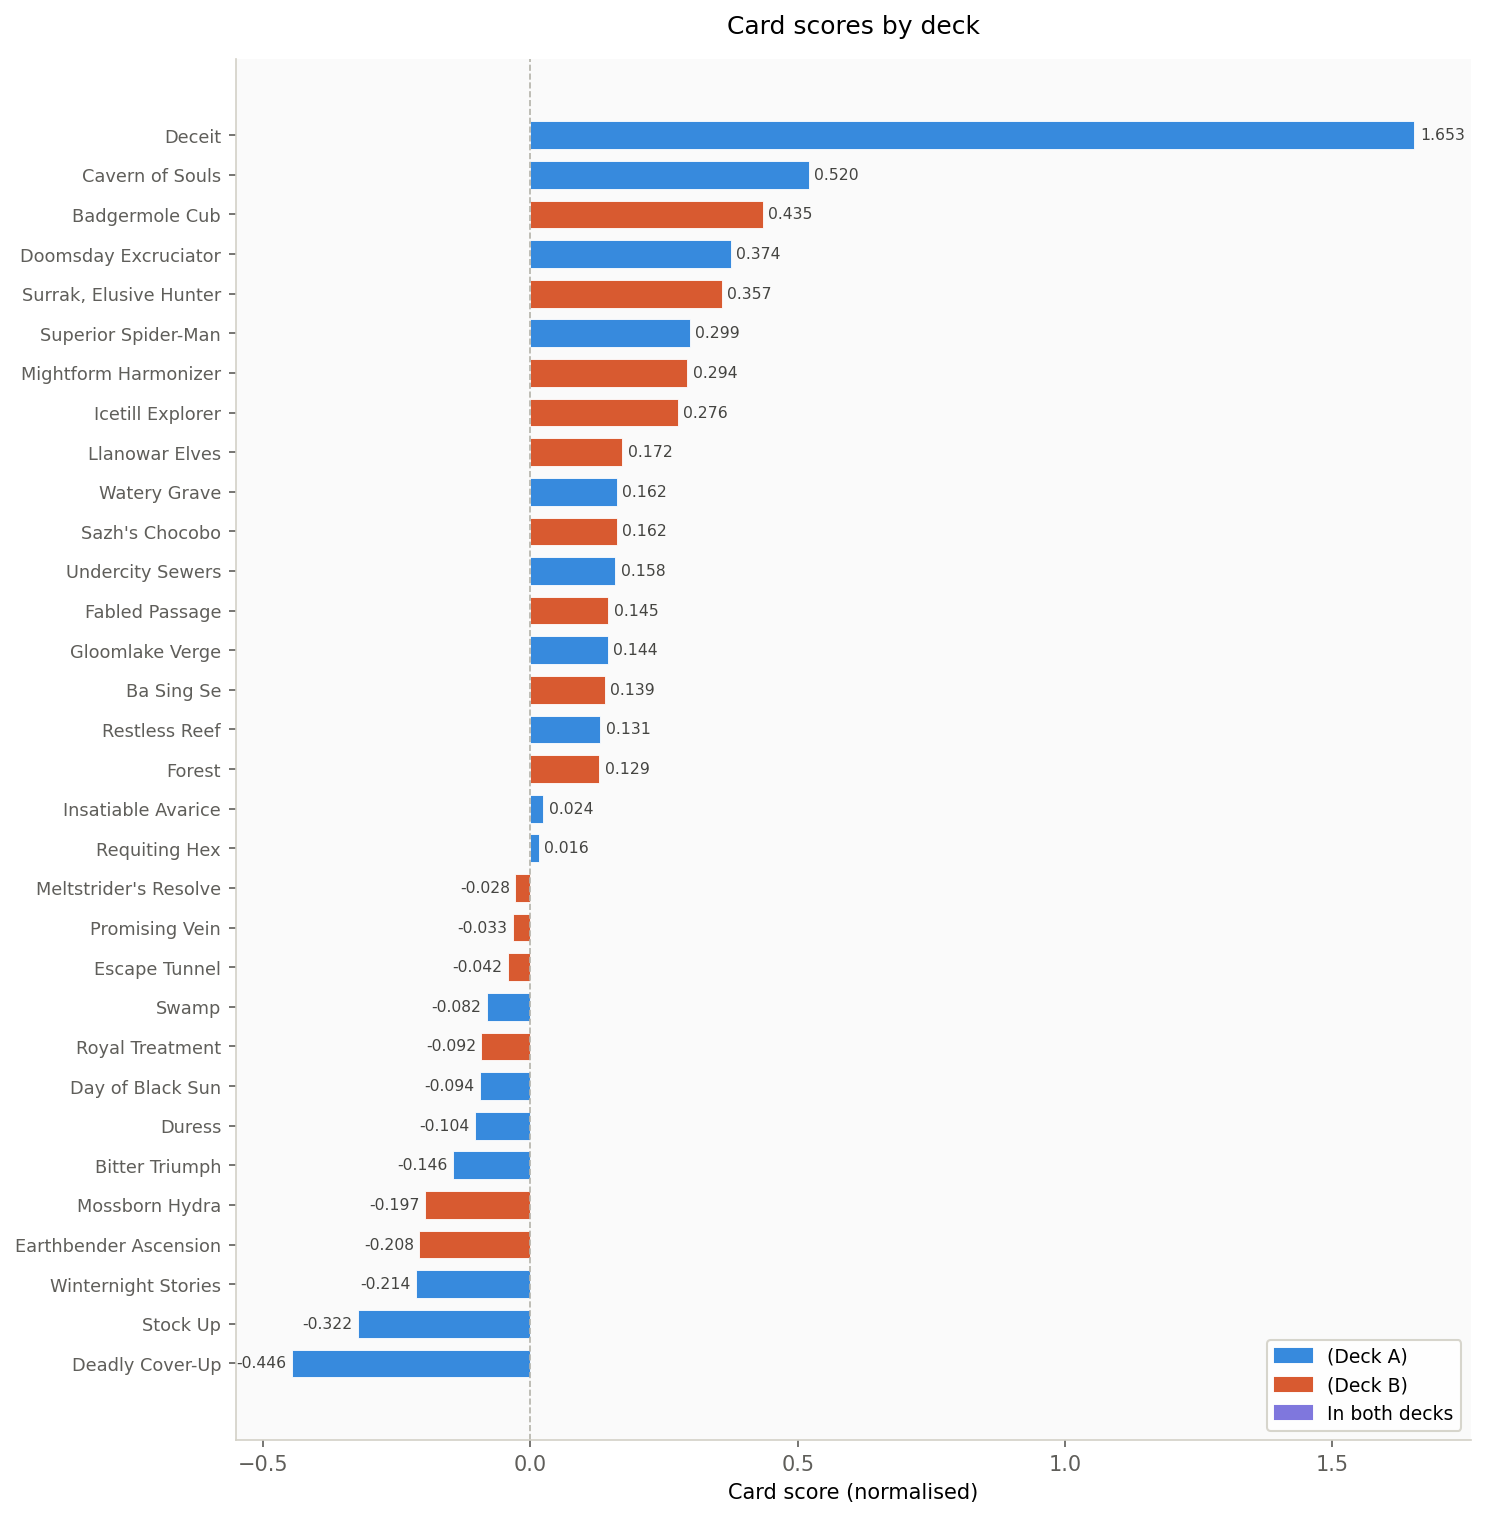
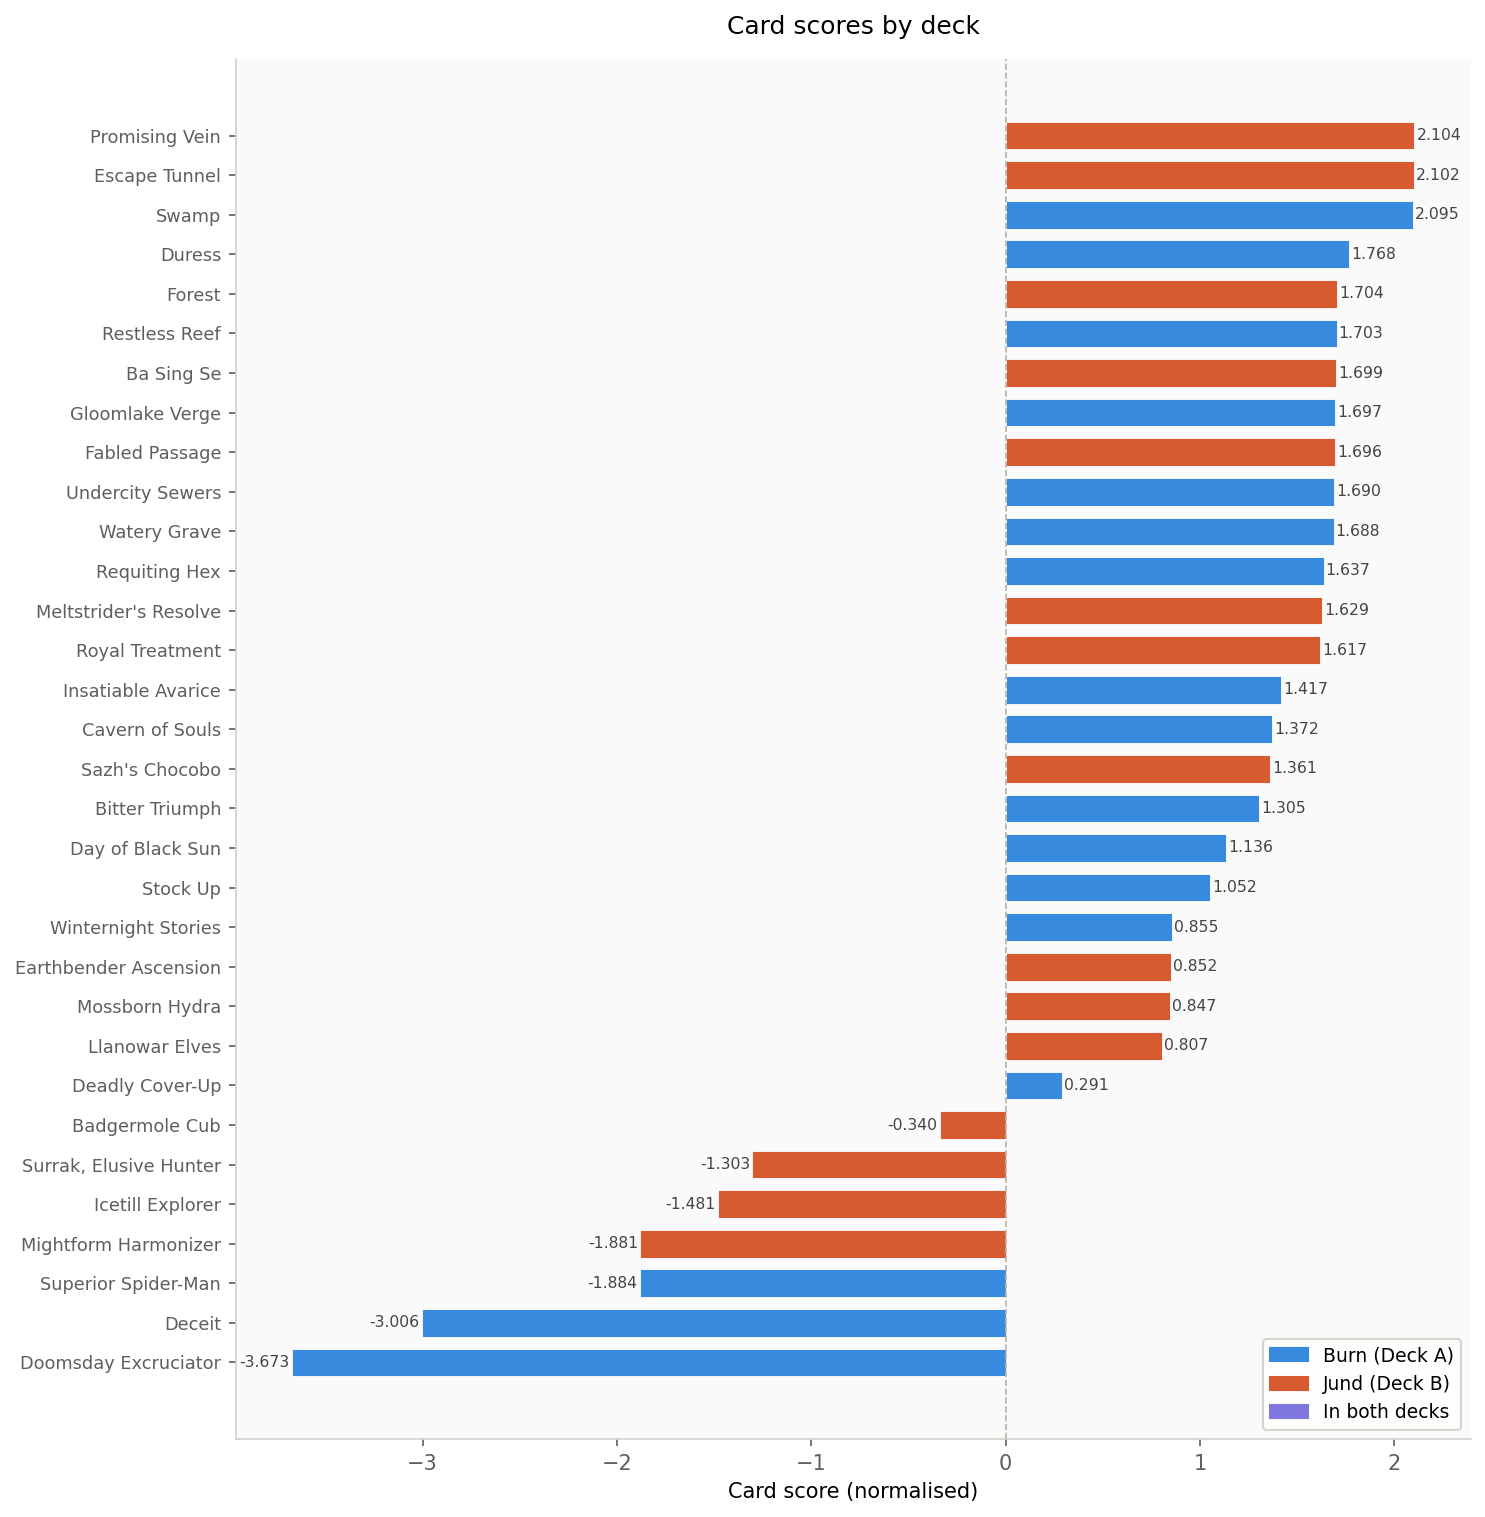
adding feature scoring visualization

diff --git a/mtg_deck_scorer_old.py b/mtg_deck_scorer_old.py
@@ -44,9 +44,7 @@ import matplotlib.pyplot as plt
 import numpy as np
 from pymongo import MongoClient
 from pymongo.errors import ConnectionFailure, OperationFailure
-from sklearn.decomposition import PCA
 from sklearn.preprocessing import StandardScaler
-
 
 # ---------------------------------------------------------------------------
 # Logging
@@ -91,9 +89,17 @@ MONGO_COLLECTION = os.getenv("MONGO_COLLECTION", "cards")
 
 RARITY_MAP = {"common": 1, "uncommon": 2, "rare": 3, "mythic": 4, "special": 3}
 
-# Ordered list of features fed into PCA.
-# PCA will learn the weights from the card pool data itself.
-FEATURE_NAMES = ["cmc", "price_usd", "price_usd_foil", "power", "toughness", "rarity_score"]
+# Feature weights — edit these to change scoring priorities.
+# Negative CMC weight: lower mana curve = higher score.
+# All other weights are positive: more = better.
+FEATURE_WEIGHTS = {
+    "cmc":            -0.20,   # lower curve is stronger
+    "price_usd":       0.30,   # expensive cards are generally better
+    "price_usd_foil":  0.10,   # secondary price signal
+    "power":           0.20,   # combat stats matter
+    "toughness":       0.10,   # survivability
+    "rarity_score":    0.10,   # rarer = more impactful on average
+}
 
 # How aggressively the sigmoid converts score difference to probability.
 # Higher = more decisive predictions. Lower = closer to 50/50.
@@ -221,67 +227,40 @@ class DeckScorer:
 
     def _build_lookup(self, cards: list[dict]) -> None:
         """
-        Derive feature weights from the card pool using PCA, then score
-        every card as its projection onto PC1 (the direction of maximum
-        variance across all cards).
-
-        Why PC1?
-        PC1 captures the single axis along which cards differ the most.
-        In a card pool where price, rarity, power, and toughness all tend
-        to move together for strong cards, PC1 naturally points in the
-        direction of overall card quality — without any hand-tuned numbers.
-
-        The loadings (eigenvector coefficients) become the weights.
-        A negative loading on CMC means high-CMC cards score lower, which
-        matches the intuition that cheaper-to-cast cards are more flexible.
-        If PC1 ends up pointing the wrong way (i.e. expensive cards score
-        low), we flip the sign so that higher score always means stronger.
+        Normalise features across the full card pool, apply weights,
+        then store a mean score per card name.
         """
-        # Build normalised feature matrix
+        feature_names = list(FEATURE_WEIGHTS.keys())
+        weights       = np.array([FEATURE_WEIGHTS[f] for f in feature_names])
+
+        # Build feature matrix
         matrix = np.array([
-            [extract_features(doc)[f] for f in FEATURE_NAMES]
+            [extract_features(doc)[f] for f in feature_names]
             for doc in cards
         ], dtype=float)
 
+        # Normalise so each feature contributes on the same scale
         scaler = StandardScaler()
         normed = scaler.fit_transform(matrix)
 
-        # Fit PCA and extract PC1 loadings as weights
-        pca = PCA(n_components=len(FEATURE_NAMES))
-        pca.fit(normed)
-        weights = pca.components_[0]   # shape: (n_features,)
-
-        # Convention: ensure price_usd loading is positive so that
-        # more expensive cards score higher (flip entire vector if not)
-        price_idx = FEATURE_NAMES.index("price_usd")
-        if weights[price_idx] < 0:
-            weights = -weights
-            logger.debug("PC1 sign flipped so that price_usd loading is positive")
-
-        logger.info(
-            "PCA weights (PC1 explains %.1f%% of variance): %s",
-            pca.explained_variance_ratio_[0] * 100,
-            {f: round(float(w), 4) for f, w in zip(FEATURE_NAMES, weights)},
-        )
-
-        # Card score = projection onto PC1
+        # Weighted sum -> raw card scores
         raw_scores = normed @ weights
 
-        # Build name -> score lookup (one entry per unique card name)
-        lookup: dict[str, float] = {}
+        # Group by name (lowercase) and average across printings
+        lookup: dict[str, list[float]] = {}
         for doc, score in zip(cards, raw_scores):
             name = doc.get("name", "").strip().lower()
             if name:
-                lookup[name] = float(score)
+                lookup.setdefault(name, []).append(float(score))
 
-        self.score_lookup: dict[str, float] = lookup
+        self.score_lookup: dict[str, float] = {
+            name: float(np.mean(vals)) for name, vals in lookup.items()
+        }
 
-        # Store for external use (plot, logging)
+        # Also store per-feature normalised means for breakdown reporting
         self._scaler        = scaler
-        self._pca           = pca
+        self._feature_names = feature_names
         self._weights       = weights
-        self._feature_names = FEATURE_NAMES
-        self._explained_variance = pca.explained_variance_ratio_
 
     @classmethod
     def from_mongo(cls) -> "DeckScorer":
@@ -457,106 +436,6 @@ def _build_reasoning(
 # ---------------------------------------------------------------------------
 # Plot
 # ---------------------------------------------------------------------------
-
-def plot_feature_weights(
-    scorer: "DeckScorer",
-    output_path: str = "feature_weights.png",
-) -> None:
-    """
-    Two-panel chart showing:
-      Left  — PC1 loadings (the weights used to score each card), as a
-              horizontal bar chart. Positive = feature raises score,
-              negative = feature lowers score.
-      Right — Explained variance ratio across all principal components,
-              showing how much of the card-pool variance each PC captures.
-              The bar for PC1 is highlighted since that is the one we use.
-    """
-    weights   = scorer._weights
-    feat_names = scorer._feature_names
-    ev_ratio  = scorer._explained_variance
-
-    # Friendly display names
-    label_map = {
-        "cmc":            "CMC",
-        "price_usd":      "Price (USD)",
-        "price_usd_foil": "Foil price (USD)",
-        "power":          "Power",
-        "toughness":      "Toughness",
-        "rarity_score":   "Rarity",
-    }
-    labels = [label_map.get(f, f) for f in feat_names]
-
-    # Sort loadings for the bar chart (largest absolute value at top)
-    order   = np.argsort(np.abs(weights))
-    s_labels  = [labels[i] for i in order]
-    s_weights = weights[order]
-    bar_colors = ["#378ADD" if w >= 0 else "#D85A30" for w in s_weights]
-
-    fig, (ax_load, ax_var) = plt.subplots(1, 2, figsize=(12, 5))
-
-    # ── Left panel: PC1 loadings ──────────────────────────────────────────
-    bars = ax_load.barh(
-        s_labels, s_weights,
-        color=bar_colors, edgecolor="white", linewidth=0.4, height=0.6,
-    )
-    for bar, val in zip(bars, s_weights):
-        offset = 0.005 if val >= 0 else -0.005
-        ha     = "left" if val >= 0 else "right"
-        ax_load.text(
-            bar.get_width() + offset,
-            bar.get_y() + bar.get_height() / 2,
-            f"{val:+.4f}",
-            va="center", ha=ha, fontsize=8.5, color="#444441",
-        )
-
-    ax_load.axvline(0, color="#B4B2A9", linewidth=0.8, linestyle="--")
-    ax_load.set_xlabel("PC1 loading (weight)", fontsize=10)
-    ax_load.set_title("Feature weights from PCA", fontsize=11, fontweight="medium", pad=10)
-
-    pos_patch = mpatches.Patch(color="#378ADD", label="Raises card score")
-    neg_patch = mpatches.Patch(color="#D85A30", label="Lowers card score")
-    ax_load.legend(handles=[pos_patch, neg_patch], fontsize=8.5,
-                   framealpha=0.9, edgecolor="#D3D1C7")
-
-    # ── Right panel: explained variance ──────────────────────────────────
-    n_components = len(ev_ratio)
-    pc_labels    = [f"PC{i+1}" for i in range(n_components)]
-    ev_colors    = ["#7F77DD" if i == 0 else "#D3D1C7" for i in range(n_components)]
-
-    ax_var.bar(pc_labels, ev_ratio * 100, color=ev_colors,
-               edgecolor="white", linewidth=0.4)
-    for i, v in enumerate(ev_ratio * 100):
-        ax_var.text(i, v + 0.4, f"{v:.1f}%", ha="center",
-                    fontsize=8, color="#444441")
-
-    ax_var.set_ylabel("Explained variance (%)", fontsize=10)
-    ax_var.set_title("Variance explained by each PC", fontsize=11, fontweight="medium", pad=10)
-    ax_var.set_ylim(0, max(ev_ratio * 100) * 1.15)
-
-    pc1_patch = mpatches.Patch(color="#7F77DD", label="PC1 — used for scoring")
-    ax_var.legend(handles=[pc1_patch], fontsize=8.5,
-                  framealpha=0.9, edgecolor="#D3D1C7")
-
-    # ── Shared styling ────────────────────────────────────────────────────
-    for ax in (ax_load, ax_var):
-        ax.spines["top"].set_visible(False)
-        ax.spines["right"].set_visible(False)
-        ax.spines["left"].set_color("#D3D1C7")
-        ax.spines["bottom"].set_color("#D3D1C7")
-        ax.tick_params(colors="#5F5E5A")
-        ax.set_facecolor("#FAFAFA")
-
-    fig.patch.set_facecolor("white")
-    plt.tight_layout(pad=2.0)
-
-    try:
-        plt.savefig(output_path, dpi=150, bbox_inches="tight")
-        logger.info("Feature weights plot saved -> %s", output_path)
-    except Exception as exc:
-        logger.error("Failed to save feature weights plot: %s", exc)
-    finally:
-        plt.close(fig)
-
 
 def plot_deck_comparison(
     deck_a: list[str],
@@ -753,6 +632,7 @@ if __name__ == "__main__":
        "Promising Vein", "Promising Vein",
 ]
 
+
     try:
         result = scorer.compare(deck_a, deck_b)
     except Exception as exc:
@@ -772,11 +652,9 @@ if __name__ == "__main__":
     for r in result["reasoning"]:
         print(f"    - {r}")
 
-    plot_feature_weights(scorer, output_path="feature_weights.png")
-
     plot_deck_comparison(
         deck_a, deck_b, scorer,
-        deck_a_label="Burn (Deck A)",
-        deck_b_label="Jund (Deck B)",
+        deck_a_label="(Deck A)",
+        deck_b_label="(Deck B)",
         output_path="deck_comparison.png",
     )
